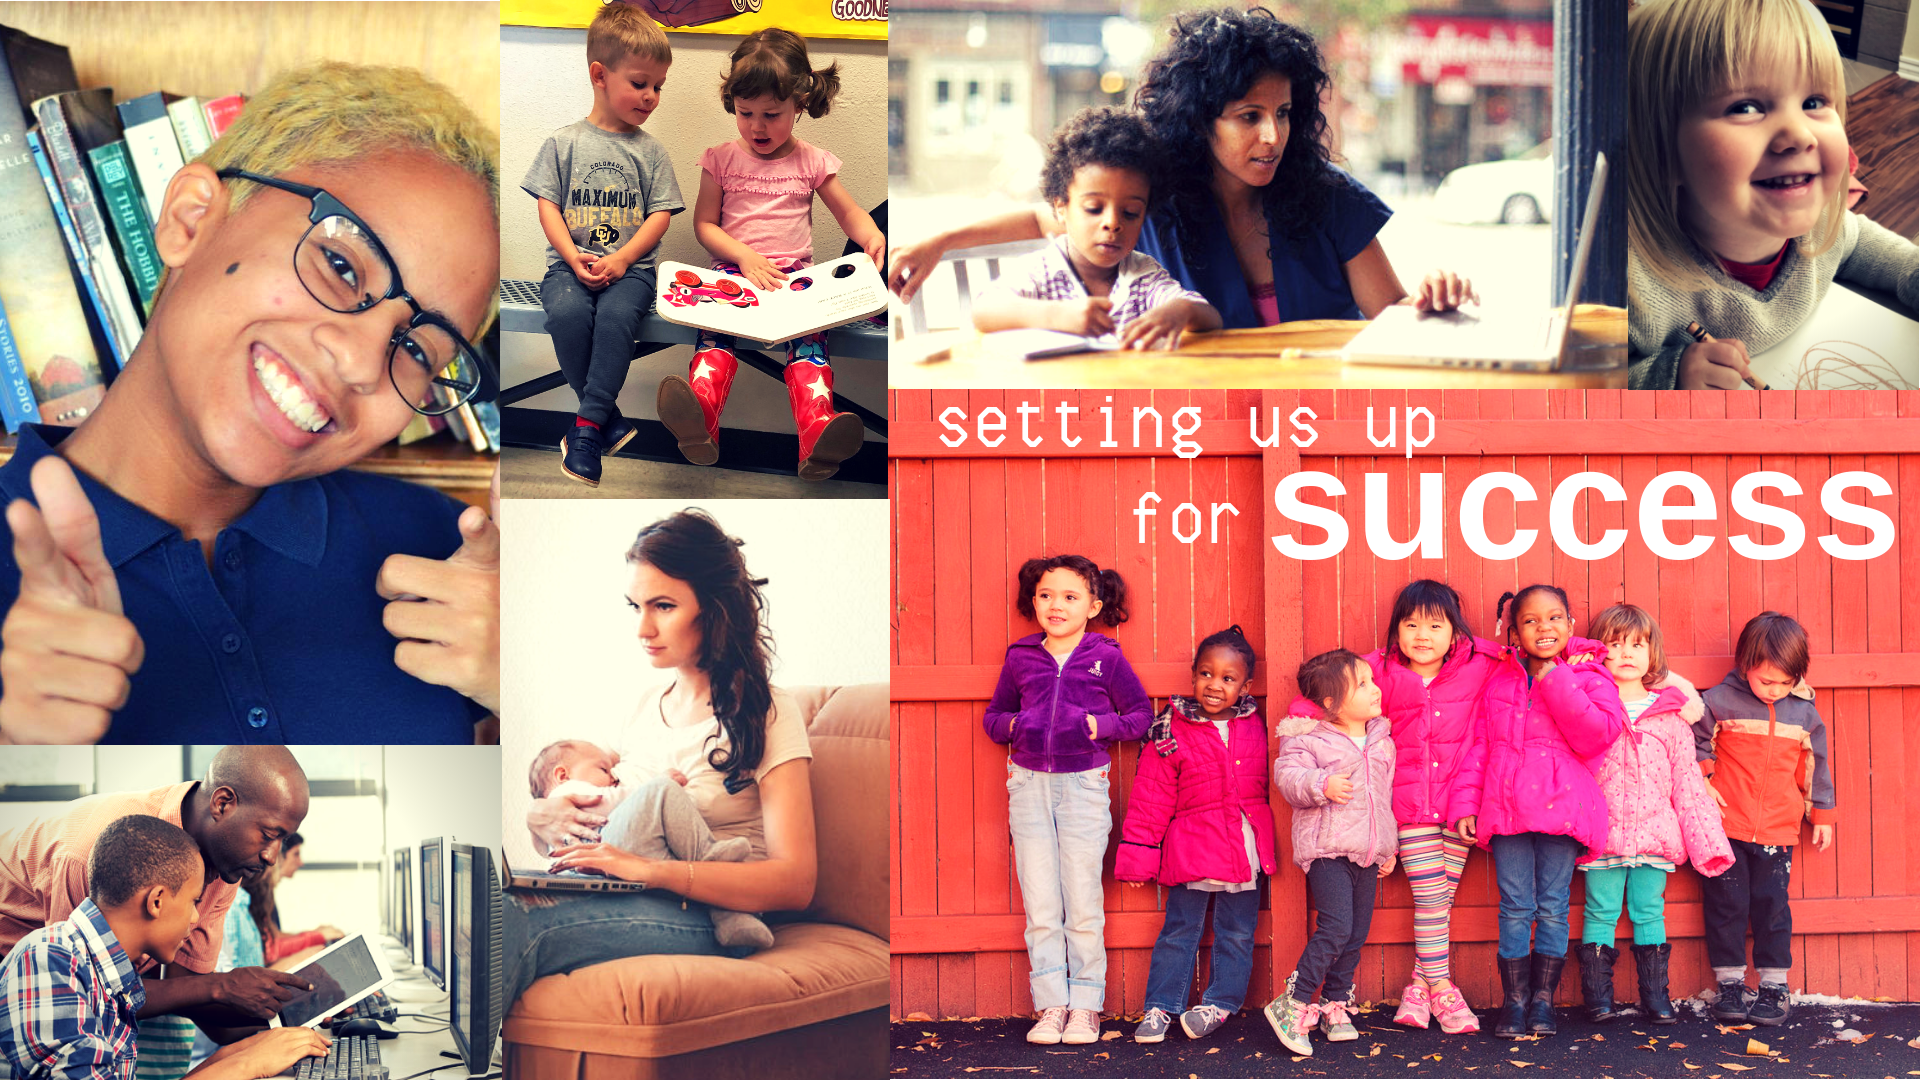
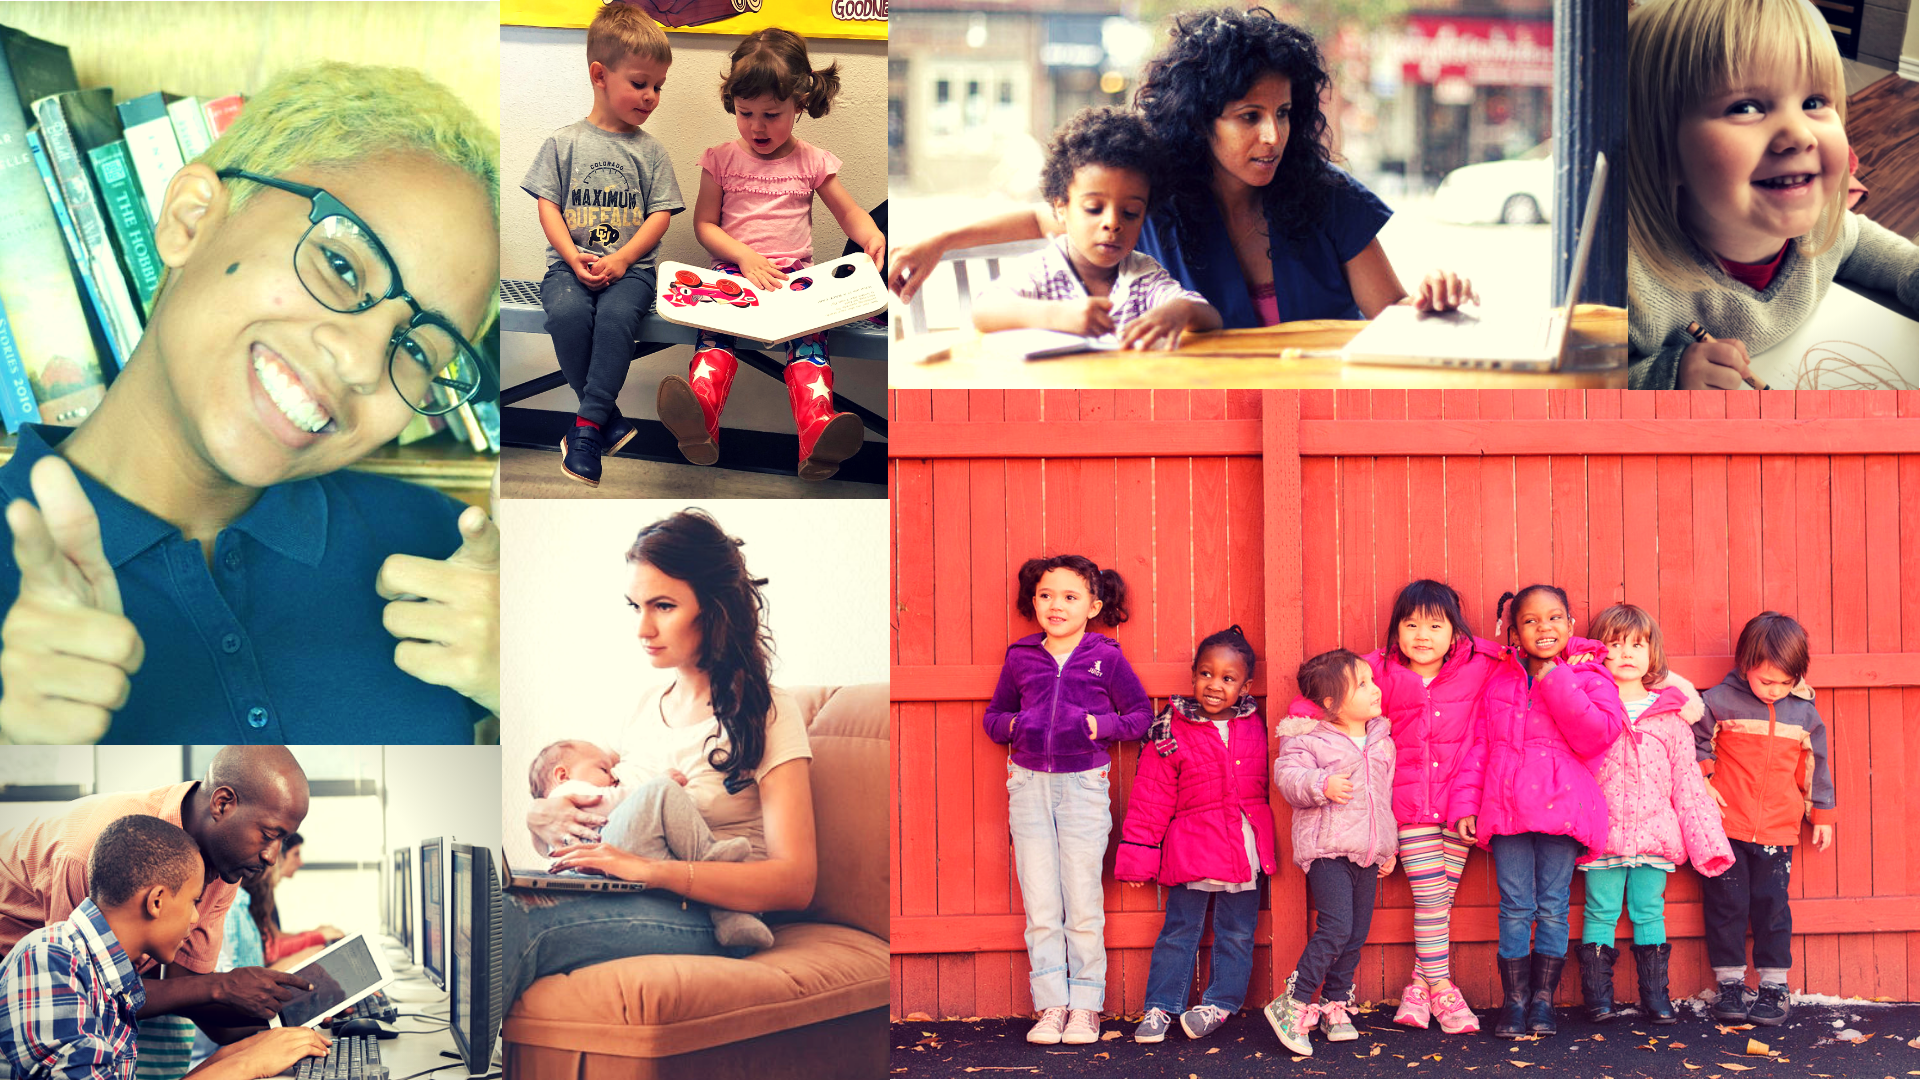
update .png and relocate nav

Changed region(s): [[0.0, 0.0, 0.2812, 0.7028], [0.5938, 0.3667, 1.0, 0.5194], [0.4688, 0.3667, 0.625, 0.4278]]

diff --git a/index.html b/index.html
@@ -14,7 +14,15 @@
         <span>turing too</span>
     </header>
 
-<main>
+  <main>
+
+    <div id="banner" class="flex-container">
+        <div class="heading">
+          <h4>growing together</h4>
+          <h1>Learning Center at Turing</h1>
+        </div>
+    </div>
+
     <div class="navbar">
       <nav>
         <a class="fullmenu" href="#">OUR MISSION</a>
@@ -25,14 +33,6 @@
 
       </nav>
     </div>
-    <div id="banner" class="flex-container">
-        <div class="heading">
-          <h4>growing together</h4>
-          <h1>Learning Center at Turing</h1>
-        </div>
-    </div>
-
-
 
       <div class="tri-color-border">
         <div class="yellow"></div>
@@ -55,7 +55,7 @@
 </a>
       </div>
       <div id="collage" class="flex-container">
-        <img src="https://i.postimg.cc/J76z2d0R/Success.png">
+        <img src="https://i.postimg.cc/CMsnXW95/Success.png">
       </div>
       <div class="infant-ECE">
 
